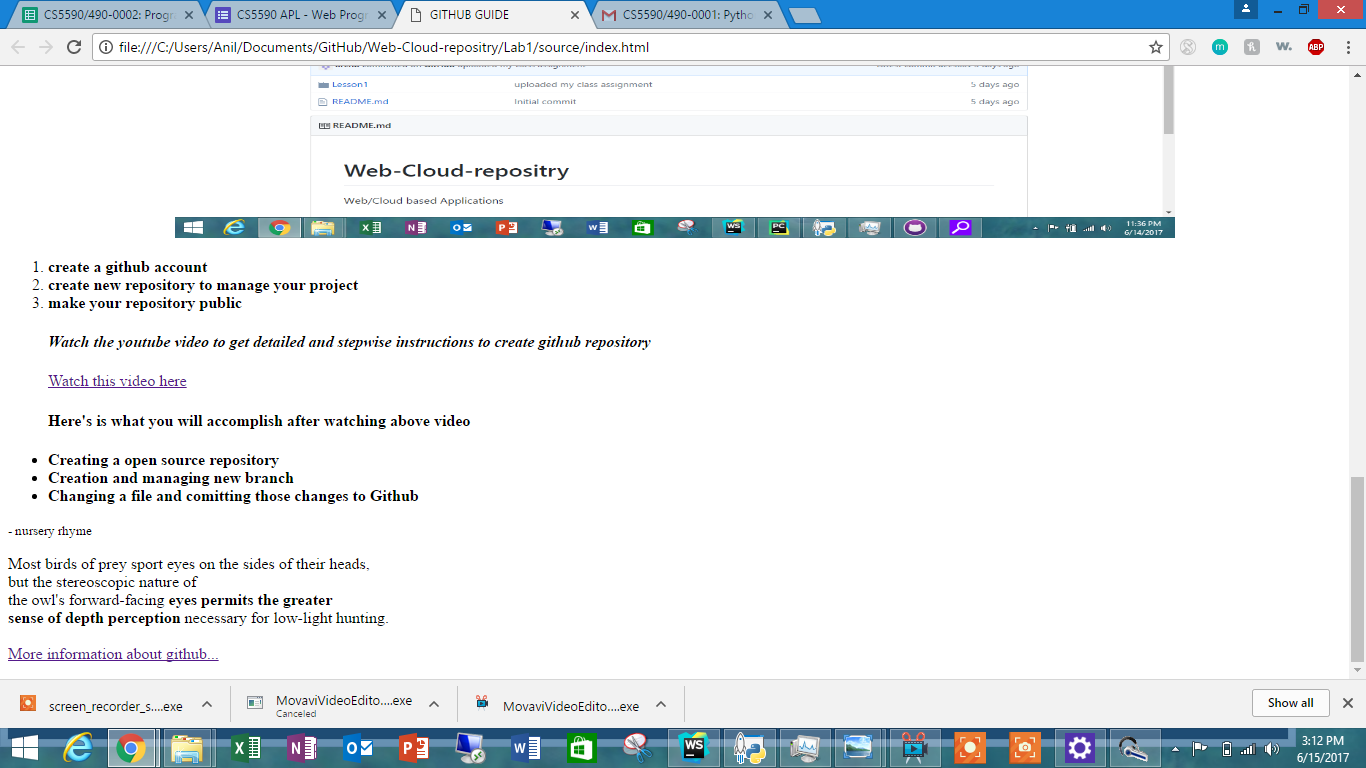
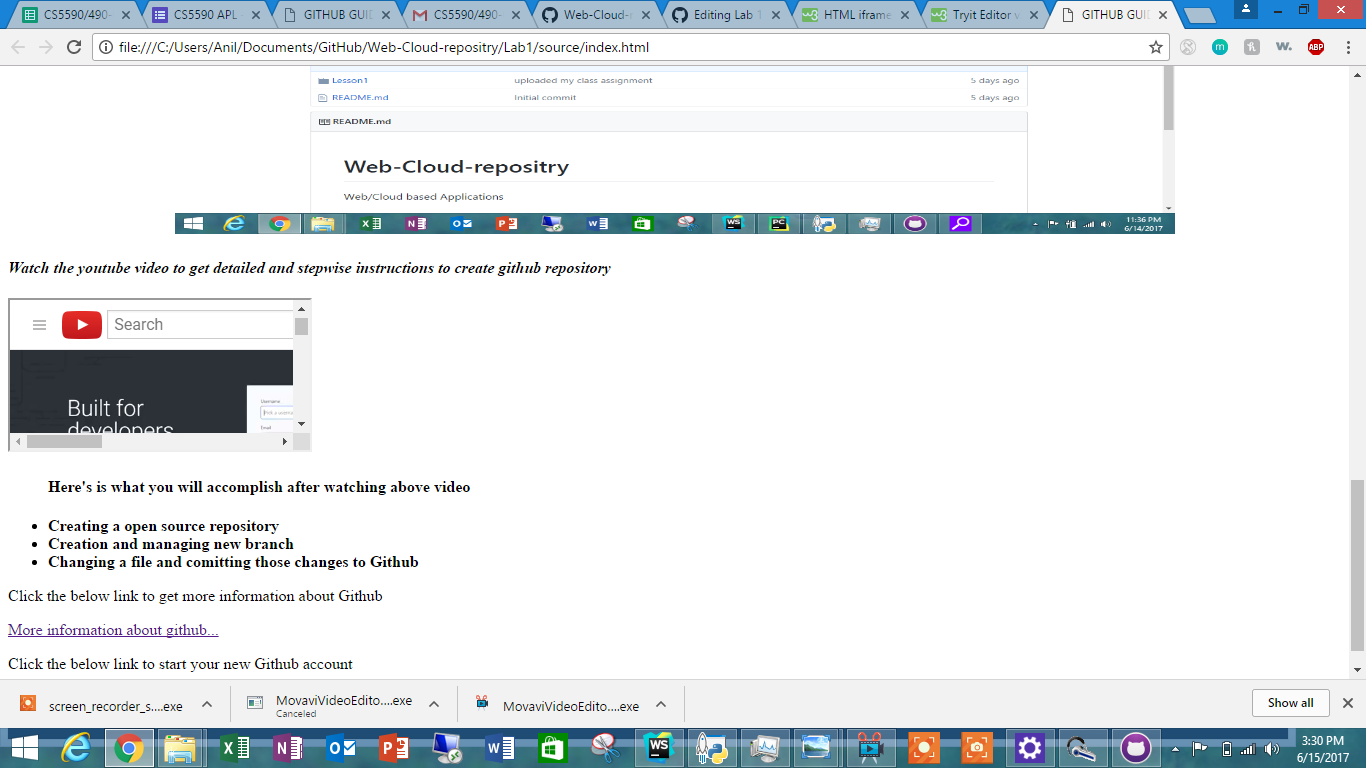
changes

diff --git a/Lab1/source/index.html b/Lab1/source/index.html
@@ -36,7 +36,8 @@
         <i>Watch the youtube video to get detailed and stepwise instructions to create github repository
         </i>
     </h4>
-    <a href="https://youtu.be/WkzqZGWQivQ"target="_blank">Watch this video here</a>
+
+    <iframe src="https://youtu.be/WkzqZGWQivQ"target="_blank">Watch this video here</iframe>
 
 <ul><h4>Here's is what you will accomplish after watching above video</h4>
     <li>
